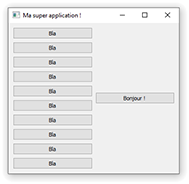
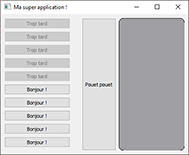
QTimers discovery
- Disable buttons on timeout (in CPP project)
- Simulates deceleration phenomenon (in QDashboard project)

diff --git a/CppQtGUI_Tutorial/TestQtIHM/mainwindow.cpp b/CppQtGUI_Tutorial/TestQtIHM/mainwindow.cpp
@@ -1,43 +1,43 @@
 #include "mainwindow.h"
 #include <QDebug>
 
-MainWindow::MainWindow(QWidget *parent)
-    : QMainWindow(parent)
+MainWindow::MainWindow(QWidget *parent) : QMainWindow(parent)
 {
     setWindowTitle("Ma super application !");
 
     m_hBoxLayout = new QHBoxLayout(this);
 
-    m_mainWidget = new QWidget(this);       // prend en parent this pour l'auto destruction
-    m_mainWidget->setLayout(m_hBoxLayout);  // le layout principal sera le HBox
+    m_mainWidget = new QWidget(this);       // takes "this" as a parent (for self-destruction)
+    m_mainWidget->setLayout(m_hBoxLayout);  // main layout will be the HBox
 
-    m_vBoxLayout = new QVBoxLayout(this);   // création du VBox
+    m_vBoxLayout = new QVBoxLayout(this);   // VBox creation
 
-    m_hBoxLayout->addLayout(m_vBoxLayout);  // ajout du VBox dans le HBox
+    m_hBoxLayout->addLayout(m_vBoxLayout);  // adds VBox in the HBox
 
     m_customBtnBonjour = new QPushButton("Pouet pouet", this);
     m_customBtnBonjour->setSizePolicy(QSizePolicy::Maximum, QSizePolicy::Minimum);
     /*
-        Méthode pour "linker" un bouton et une fonction (DP Observer) :
-        m_customBtnBonjour,     bouton que l'on souhaite "binder"
-        SIGNAL(clicked(bool)),  type de l'evenement à écouter
-        this,                   Objet auquel est associé la fonction
-        SLOT(onClickCustomBtn(bool))    la fonction en question
+        Method to "link" a button and a function (DP Observer) :
+        m_customBtnBonjour,     button that we want to "bind"
+        SIGNAL(clicked(bool)),  type of the event to listen to
+        this,                   Object associated to the following function
+        SLOT(onClickCustomBtn(bool))    the triggered function
     */
     connect(m_customBtnBonjour, SIGNAL(clicked(bool)), this, SLOT(onClickCustomBtn()));
 
     m_hBoxLayout->addSpacing(20);
-    m_hBoxLayout->addWidget(m_customBtnBonjour);    // ajout du btn dans le HBOX
+    m_hBoxLayout->addWidget(m_customBtnBonjour);    // adds btn in the HBox
     m_hBoxLayout->addWidget(new CustomWidget());
 
     for(int i=0; i<10; i++) {
-        CustomButton* tempButton = new CustomButton("Bonjour !", m_mainWidget);
-        m_vBoxLayout->addWidget(tempButton);      // ajout de plsr btn dans VBOX
+        int msBeforeBeingDisabled = i * 2000;
+        CustomButton* tempButton = new CustomButton(msBeforeBeingDisabled, "Bonjour !", m_mainWidget);
+        m_vBoxLayout->addWidget(tempButton);      // adds multiples btn in the VBOX
 
         connect(tempButton, SIGNAL(clicked(bool)), tempButton, SLOT(btnAction()));
     }
 
-    setCentralWidget(m_mainWidget);     // spécifie le widget principal
+    setCentralWidget(m_mainWidget);     // specified the main widget
 }
 
 MainWindow::~MainWindow()

diff --git a/QDashboard/QDashboard.py b/QDashboard/QDashboard.py
@@ -77,21 +77,21 @@ class MainWindow(QWidget):
         QWidget.paintEvent(self, event)
 
     def wheelEvent(self, scrollEvent):
-        modifiers = QApplication.keyboardModifiers()
-        if modifiers == Qt.ControlModifier:
-            print("Ctrl + scroll")
-        elif modifiers == Qt.ShiftModifier:
-            print("Shift + scroll")
-        elif modifiers == Qt.AltModifier:
-            print("Alt + scroll")
+        # modifiers = QApplication.keyboardModifiers()
+        # if modifiers == Qt.ControlModifier:
+        #     print("Ctrl + scroll")
+        # elif modifiers == Qt.ShiftModifier:
+        #     print("Shift + scroll")
+        # elif modifiers == Qt.AltModifier:
+        #     print("Alt + scroll")
 
         scrollEvent.accept()
         print("Autre scroll", scrollEvent.angleDelta().x(), " ", scrollEvent.angleDelta().y())
 
         if scrollEvent.angleDelta().y() > 0:
-            self.slideFromRight()
+            self.slideFromRight()	# or fire event "Qt.Key_Right" ?
         elif scrollEvent.angleDelta().y() < 0:
-            self.slideFromLeft()
+            self.slideFromLeft()	# or fire event "Qt.Key_Left" ?
 
     def keyPressEvent(self, event):
         if event.key() == Qt.Key_Up:

diff --git a/QDashboard/DashUI.py b/QDashboard/DashUI.py
@@ -1,4 +1,4 @@
-# from PyQt5.QtCore import *
+from PyQt5.QtCore import QTimer
 from PyQt5.QtGui import QFont, QColor
 from PyQt5.QtWidgets import QFrame, QLabel
 
@@ -25,6 +25,10 @@ class SpeedLabel(QLabel):
         self.setText(str(speed))
         self.initUI()
 
+        self.timer = QTimer(self)
+        self.timer.setInterval(1200)
+        self.timer.timeout.connect(self.deceleration)
+
     def initUI(self):
         self.setMaximumSize(700, 75)
         self.setFont(QFont('Mosk Thin 100', 30, 60))
@@ -38,12 +42,19 @@ class SpeedLabel(QLabel):
 
         if currentSpeed < self.MAX_SPEED:
             self.setText(str(currentSpeed + 1))
+            self.timer.start()   # starts deceleration phenomenon
 
     def slowDown(self):
         currentSpeed = self.getSpeedValue()
 
         if currentSpeed > self.MIN_SPEED:
             self.setText(str(currentSpeed - 1))
+        else:
+            self.timer.stop()   # stops deceleration phenomenon when MIN_SPEED is reached
 
     def getSpeedValue(self):
         return int(self.text())
+
+    def deceleration(self):
+        # simulates engine brake by decreasing speed every 1200ms
+        self.slowDown()

diff --git a/CppQtGUI_Tutorial/TestQtIHM/customwidget.cpp b/CppQtGUI_Tutorial/TestQtIHM/customwidget.cpp
@@ -10,25 +10,26 @@ void CustomWidget::paintEvent(QPaintEvent* event)
 {
     QPainter p(this);
 
-    p.setPen(isClicked ? Qt::blue : Qt::black);     // contour modifié si cliqué
+    // modify border color on click
+    p.setPen(isClicked ? Qt::blue : Qt::black);
 
     p.setBrush(Qt::gray);
 
     p.drawRoundedRect(0, 0, this->width(), this->height(), 10, 10);
 
-    // facultatif : texte dans le widget...
+    // optional : text in the widget...
 
-//    updateGeometry();   // bonne pratique ? recalcule l'espace occupé par le widget
+//    updateGeometry();   // good practice ? should recalculates the space occupied by the widget..
 }
 
 void CustomWidget::mousePressEvent(QMouseEvent *e)
 {
     isClicked = true;
-    repaint();  // force le widget à mettre à jour son apparence
+    repaint();  // forces widget to update its appearance
 }
 
 void CustomWidget::mouseReleaseEvent(QMouseEvent *e)
 {
     isClicked = false;
-    repaint();  // force le widget à mettre à jour son apparence
+    repaint();  // forces widget to update its appearance
 }

diff --git a/CppQtGUI_Tutorial/TestQtIHM/custombutton.cpp b/CppQtGUI_Tutorial/TestQtIHM/custombutton.cpp
@@ -2,20 +2,32 @@
 #include <QPushButton>
 #include <QMessageBox>
 
-#include <QDebug>   // added
+#include <QDebug>
 
-CustomButton::CustomButton(QString text, QWidget *parent)
-    : QPushButton(parent)       // Modifié
+CustomButton::CustomButton(int lifetime, QString text, QWidget *parent)
+    : QPushButton(parent)
 {
     setText(text);
+
+    // Connect a timer that disable the button after the lifetime specified
+    timer.setInterval(lifetime);
+    timer.start();
+    connect(&timer, SIGNAL(timeout()), this, SLOT(disableButton()));
 }
 
 void CustomButton::btnAction()
 {
-    QMessageBox::information(this, "Titre","Clic détécté !");
+    QMessageBox::information(this, "Titre", "Clic détécté !");
 }
 
-CustomButton::~CustomButton()      // added
+CustomButton::~CustomButton()
 {
     qDebug() << "Destruction !" << endl;
+}
+
+void CustomButton::disableButton()
+{
+    setText("Trop tard");
+    setEnabled(false);
+    timer.stop();
 }

diff --git a/CppQtGUI_Tutorial/TestQtIHM/mainwindow.h b/CppQtGUI_Tutorial/TestQtIHM/mainwindow.h
@@ -2,9 +2,9 @@
 #define MAINWINDOW_H
 
 #include <QMainWindow>
-#include "custombutton.h"   //added
-#include <QHBoxLayout>      //added
-#include <QVBoxLayout>      //added
+#include "custombutton.h"
+#include <QHBoxLayout>
+#include <QVBoxLayout>
 
 #include "customwidget.h"
 
@@ -21,12 +21,13 @@ private slots:
     void onClickCustomBtn();
 
 private:
-    QPushButton* m_customBtnBonjour;   // added ("m_" for Main attr)
+    // "m_" added for "Main attribute"
+    QPushButton* m_customBtnBonjour;
 
     QWidget* m_mainWidget;
 
-    QVBoxLayout* m_vBoxLayout;   // added ("m_" for Main attr)
-    QHBoxLayout* m_hBoxLayout;   // added ("m_" for Main attr)
+    QVBoxLayout* m_vBoxLayout;
+    QHBoxLayout* m_hBoxLayout;
 };
 
 #endif // MAINWINDOW_H

diff --git a/CppQtGUI_Tutorial/TestQtIHM/custombutton.h b/CppQtGUI_Tutorial/TestQtIHM/custombutton.h
@@ -3,17 +3,22 @@
 
 #include <QObject>
 #include <QPushButton>
+#include <QTimer>
 
 class CustomButton : public QPushButton
 {
-    Q_OBJECT    // Ajouté
+    Q_OBJECT
 
 private slots :
     void btnAction();
+    void disableButton();
 
 public:
-    CustomButton(QString text, QWidget* parent = 0);  // Modifié
-    ~CustomButton();       // added
+    CustomButton(int lifetime, QString text, QWidget* parent = 0);
+    ~CustomButton();
+
+private:
+    QTimer timer;
 };
 
 #endif // CUSTOMBUTTON_H

diff --git a/CppQtGUI_Tutorial/TestQtIHM/main.cpp b/CppQtGUI_Tutorial/TestQtIHM/main.cpp
@@ -7,7 +7,7 @@ int main(int argc, char *argv[])
     MainWindow w;
     w.show();
 
-    // PAUSED @ https://youtu.be/050zzD4c-5c?t=5495
+    // PAUSED @ https://youtu.be/050zzD4c-5c?t=6000
 
     return a.exec();
 }
